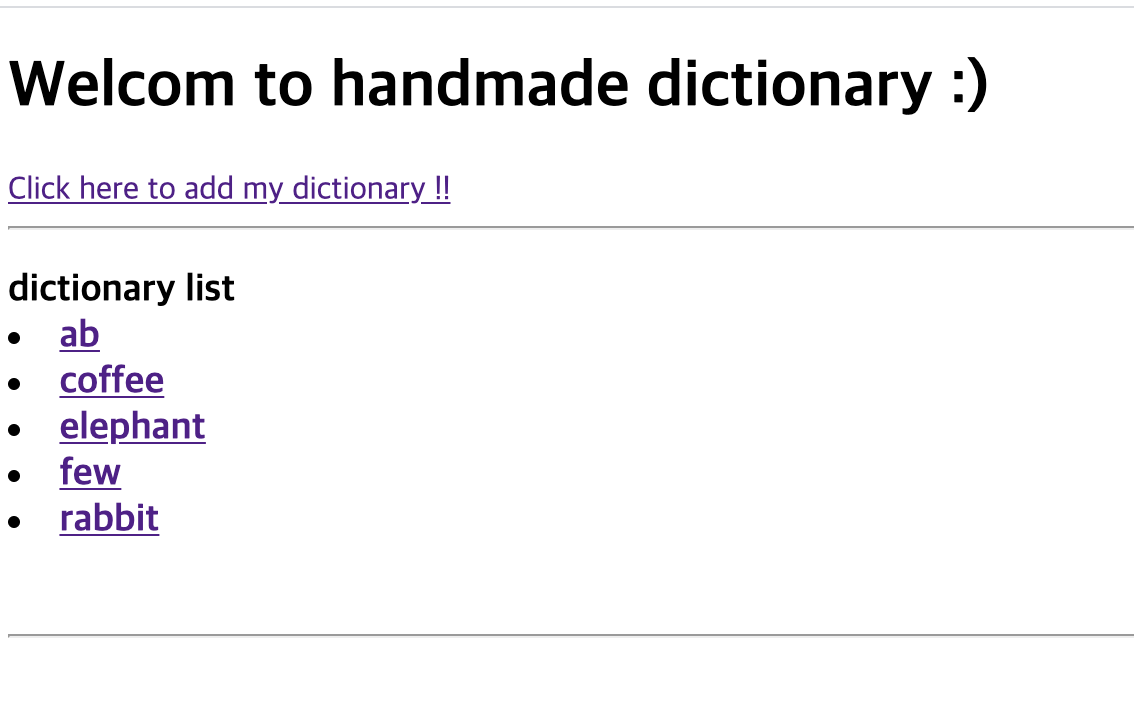
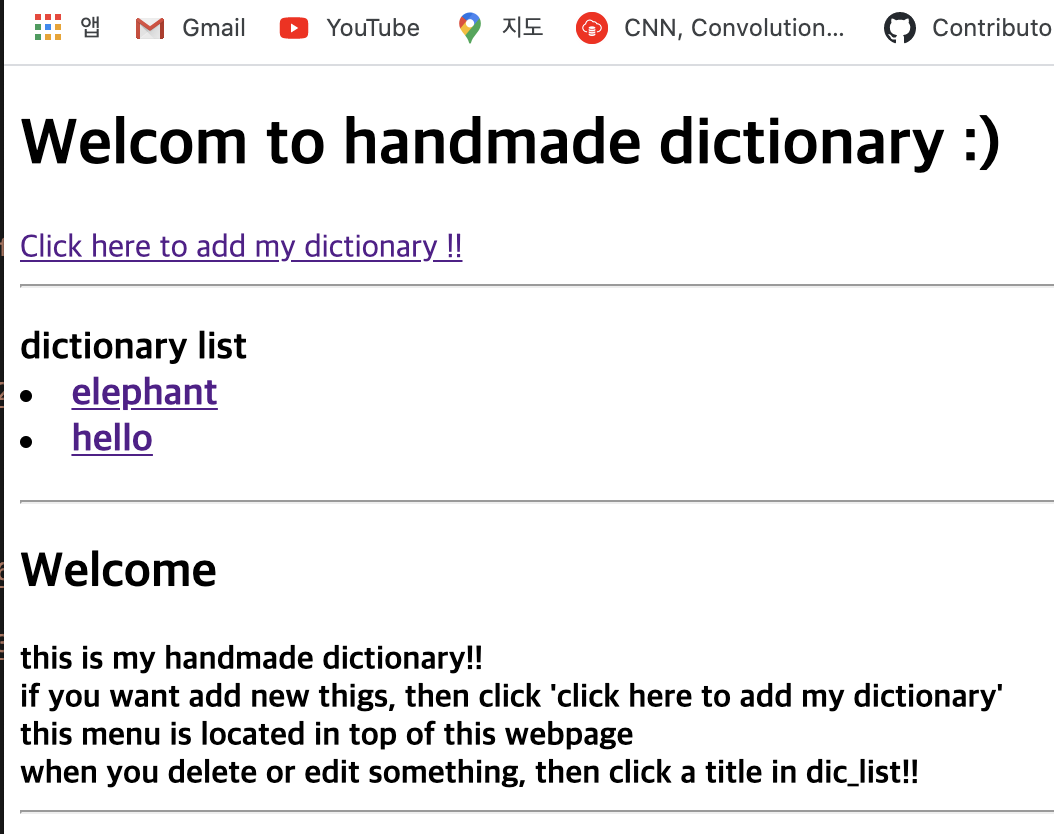
connect node to mysql

Changed region(s): [[0.0, 0.0, 1.0, 1.0], [0.425, 0.0, 0.5161, 0.0616]]

diff --git a/app.js b/app.js
@@ -25,56 +25,112 @@ app.listen(port,()=>{
     console.log(`app listening at http://localhost:${port} :)`)    
 })
 
-
-//메인 화면(main.jade로 rendering)
-app.get('/',function(req,res){
-    fs.readdir('data',function(err,files){
-        if(err){
-            console.log(err)
-            res.status(500).send('Internal Server Error')
-        }
-        res.render('main', {topics:files})
-    })
+var mysql= require('mysql')
+var conn= mysql.createConnection({
+    host:'localhost',
+    user:'root',
+    password:'123456',
+    database:'o2'
 })
-//메인화면에서 add클릭 시 입력 form(add_new.jade)로 rendering
+conn.connect()
+
+//새로운 내용추가
 app.get('/new',function(req,res){
     res.render('add_new')
 })
-
-
-//입력받은 title, 해당 title을 통해 읽은 파일들을 data에 담아 file목록이 담긴 topics와 함께
-//main.jade에 전달한다
-app.get('/:id',function(req,res){
-    var id= req.params.id
-    fs.readdir('data',function(err,files){
-        if(err){
-            console.log('error')
+//id title description author(id는 자동인덱싱)
+//메인 화면(main.jade로 rendering)
+app.get(['/','/:id'],function(req,res){
+    var sql='select id,title from topic'
+    conn.query(sql,function(err,topics,fields){
+        var id=req.params.id
+        if(id){
+            var sql = 'select * from topic where id=?'
+            conn.query(sql,id,function(err,topic,fields){
+                if(err){
+                    console.log(err)
+                }
+                else{
+                    res.render('main',{topics:topics,topic:topic[0]})
+                }
+            })
         }
-    fs.readFile('data/'+id,'utf8',function(err,data){
+        else{
+            res.render('main',{topics:topics})
+        }
+    })
+})
+
+app.get('/:id/edit',function(req,res){
+    var id=req.params.id
+    var sql='select * from topic where id=?'
+    conn.query(sql,id,function(err,topic,fields){
         if(err){
             console.log(err)
         }
-        res.render('main',{description:data,topics:files,title:id})
+        else{
+            res.render('edit',{topic:topic[0]})
+        }
     })
 })
-
-})
-
 //post형식으로 입력받은 데이터를 data폴더에 제목은 title,내용은 description으로 저장하고,
 //성공시 main화면으로 돌아가는 버튼을 만들어준다
-app.post('/',function(req,res){
+app.post('/new',function(req,res){
     var title=req.body.title
     var description=req.body.description
-    fs.writeFile('data/'+title,description,(err)=>{
-        if(err) {
-            console.log('error !!')
-            res.status(500).send('server error')
+    var author=req.body.author
+    console.log(title,description,author)
+    var sql='INSERT INTO topic (title,description,author) values(?,?,?)'
+    conn.query(sql,[title,description,author],function(err,result,fields){
+        if(err){
+            res.status(500).send('Internal server erswror')
         }
-        res.send(`save success!!<br><br>
-        <a href='/'><b>go to main<b></a>`)
+        else{
+            res.redirect('/'+result.insertId)
+        }
+
     })
-    
-})
+    })
+    app.get('/:id/delete',function(req,res){
+        var id=req.params.id
+        var sql='delete from topic where id=?'
+        conn.query(sql,id,function(err,topic,fields){
+            if(err){
+                console.log(err)
+            }
+            else{
+                
+                res.redirect('/')
+            }
+        })
+    })
+    app.post('/:id/delete',function(req,res){
+        var id=req.params.id
+        var sql='delete from topic where id=?'
+        conn.query(sql,id,function(err,topic,fields){
+            if(err){
+                console.log(err)
+            }
+            else{
+                res.send('a')
+            }
+        })
+    })
+    app.post('/:id/edit',function(req,res){
+        var title=req.body.title
+        var description=req.body.description
+        var author=req.body.author
+        var sql='update topic set title=?, description=?, author=? where id=?'
+        var id =req.params.id
+        conn.query(sql,[title,description,author,id],function(err,topic,fields){
+            if(err){
+                console.log(err)
+            }
+            else{
+                res.redirect('/'+id)
+            }
+        })
+    })
 
 
 

diff --git a/README.md b/README.md
@@ -3,23 +3,37 @@
 	- Node js
 
 - ## 핵심 기능
-	- 웹 페이지에서  원하는 title과 이 title에 관한 description을 추가할 수 있다.
+	- 웹 페이지에서  원하는 title과 이 title에 관한 description을 저자와 함께 추가, 수정,삭제 할 수 있다.
 
 - ## 사용법
     ![초기화면](/img/main.png)
     ### 메인 화면에서 요소를 추가하기위해 **click here** 을 누르면
     
-    ![추가화면](/img/input.png)
-    ### 원하는 title과 description을 넣고 추가한다.
+    ![추가화면](/img/add.png)
+    ### 원하는 title과 description author을 넣고 추가한다.
 
     ![성공화면](/img/success.png)
-    ### 성공적으로 추가가 되었으면 success와 함께 메인화면으로 복귀한다.
+    ### 성공적으로 추가가 되었으면 success와 함께 메인화면으로 복귀하여 추가한 부분을 보여준다.
+    ### 리스트의 목록중 하나의 title을 클릭하게되면 그 title에 해당하는 description,author이 같이 표시되고,
+    ### 아래에 그 항목에 해당하는 edit(수정), delete(삭제) 버튼이 표시되게 된다.
 
-    ![결과](/img/result.png)
-    ### 목록에서 내가 추가한 목록을 클릭하게 되면 밑에 title과 description이 보여진다.
+    ![수정 전](/img/edit.png)
+    ![수정 후](/img/edit_success.png)
+    ### 글을 수정한 후, 확인을 누르면 위에서 보는바와 같이 수정된 결과가 반영된다.
+
+    ![삭제](/img/delete.png)
+    ### 글을 삭제한 후, 성공적으로 삭제된 모습을 볼 수 있다.
+
+- ## 구현
+    - Node js의 express모듈을 사용하여 전반적인 구현을 하였고 templete engine으로는 jade를 사용하였다.
+    - mysql과 node를 node-mysql모듈을 사용하여 연동하였다.
 
 - ## 한계
-    - 첫 프로젝트이고, db화를 시키지 않아서 난잡하고 단순하지만 공부를 더 해나가면서 기능을 추가,변경할 예정이다.
+    - 확실한 이해를 바탕으로 만들지 않고 전반적인 흐름만 파악하고 만들었기 때문에 코드의 가독성과 효율성이 떨어지는 것 같다.
+
+- ## 참고
+    - [생활코딩 nodejs_mysql](https://www.inflearn.com/course/node-js-database/lecture/3584)
+    
 
     
 
